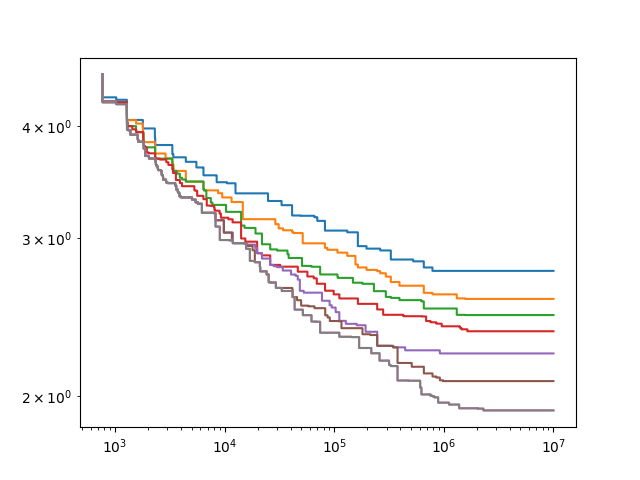
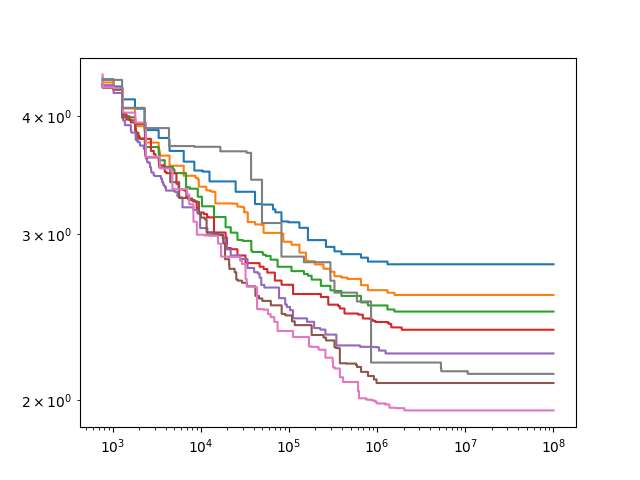
Fix the weughts/loss graph.
Use the median loss instead of the loss from single runs.

diff --git a/results.py b/results.py
@@ -1,0 +1,80 @@
+from collections import namedtuple
+import csv
+import math
+from statistics import median
+
+from record import TrainingRecord
+from spec import ModelSpec, ObsoleteSpec
+
+
+INF = float("inf")
+
+
+Configuration = namedtuple(
+    "Configuration",
+    ["spec", "lr", "sample_len", "batch", "regularization", "init_scale", "t"],
+)
+
+
+def conf_from_record(record):
+    spec = ModelSpec.parse(record.model_spec)
+    return Configuration(
+        spec,
+        record.learning_rate,
+        record.train_sample_len,
+        record.train_batch,
+        record.regularization,
+        record.init_scale,
+        record.time_round,
+    )
+
+
+class ConfResults(object):
+    def __init__(self, conf):
+        self.conf = conf
+        self.scores = []
+
+    def add_record(self, record):
+        score = record.loss
+        if math.isnan(score):
+            score = INF
+        self.scores.append(score)
+
+    @property
+    def score(self):
+        return median(self.scores)
+
+
+class ResultSet(object):
+    def __init__(self, t=None):
+        self._t = t
+        self._conf_results = {}
+
+    @staticmethod
+    def from_csv(filename, t=None):
+        result_set = ResultSet(t=t)
+        with open(filename) as csvfile:
+            for row in csv.reader(csvfile):
+                record = TrainingRecord.from_csv_tuple(row)
+                result_set.add_record(record)
+        return result_set
+
+    def add_record(self, record):
+        if self._t is not None and record.time_round != self._t: return
+
+        try:
+            conf = conf_from_record(record)
+        except ObsoleteSpec:
+            return
+        conf_results = self._conf_results.get(conf, None)
+        if conf_results is None:
+            conf_results = ConfResults(conf)
+            self._conf_results[conf] = conf_results
+
+        assert conf_results.conf == conf
+
+        conf_results.add_record(record)
+
+    def all_results(self):
+        return self._conf_results.values()
+

diff --git a/draw.py b/draw.py
@@ -1,23 +1,32 @@
-import csv
 import matplotlib.pyplot as plt
+import sys
 
 from record import TrainingRecord
+from results import ResultSet
 
 
-def max_points(records, maxt, maxx):
+def max_points(result_set, t, maxx):
     x = []
     y = []
     min_loss = 5
 
-    for r in records:
-        if r.train_time_s < maxt and r.loss < min_loss:
-            if x and x[-1] < r.weights - 1:
-                x.append(r.weights - 1)
-                y.append(min_loss)
+    for cr in sorted(result_set.all_results(), key=lambda cr: cr.conf.spec.weights()):
+        if not cr.scores or cr.conf.t != t: continue
+        if cr.score > min_loss: continue
 
-            x.append(r.weights)
-            y.append(r.loss)
-            min_loss = r.loss
+        weights = cr.conf.spec.weights()
+
+        if x:
+            if x[-1] < weights - 1:
+                x.append(weights - 1)
+                y.append(min_loss)
+            elif x[-1] == weights:
+                x.pop()
+                y.pop()
+
+        x.append(weights)
+        y.append(cr.score)
+        min_loss = cr.score
 
     x.append(maxx)
     y.append(min_loss)
@@ -25,26 +34,19 @@ def max_points(records, maxt, maxx):
     return x, y
 
 
-def main():
-    records = []
-
-    with open("search4-gpu.csv") as csvfile:
-        reader = csv.reader(csvfile)
-        for row in reader:
-            records.append(TrainingRecord.from_csv_tuple(row))
-
-    records.sort(key=lambda r: r.weights)
+def main(fname):
+    result_set = ResultSet.from_csv(fname)
 
     plt.xscale("log")
     plt.yscale("log")
 
     for t in (1, 2, 4, 8, 16, 32, 64, 128):
-        x, y = max_points(records, t + 0.2, 1E7)
-        plt.plot(x, y)
+        x, y = max_points(result_set, t, 1E8)
+        plt.plot(x, y, label=str(t))
 
     plt.savefig("graph.png")
     plt.show()
 
 
 if __name__ == "__main__":
-    main()
+    main(sys.argv[1])

diff --git a/record.py b/record.py
@@ -1,4 +1,5 @@
 from datetime import datetime
+import math
 from typing import Dict, Union, Tuple
 
 
@@ -19,7 +20,7 @@ class TrainingRecord(object):
         test_sample_len: Union[int, str],
         test_batch: Union[int, str],
         test_poisoned: Union[bool, str],
-        init_scale: Union[int, str, None] = 1,
+        init_scale: Union[float, str, None] = None,
     ):
         if not isinstance(timestamp, datetime):
             timestamp = datetime.fromisoformat(timestamp)
@@ -40,8 +41,8 @@ class TrainingRecord(object):
             test_poisoned = bool(int(test_poisoned))
         self.test_poisoned = test_poisoned
         if init_scale is None:
-            init_scale = 1
-        self.init_scale = int(init_scale)
+            init_scale = 1.0
+        self.init_scale = float(init_scale)
 
     @staticmethod
     def from_csv_tuple(row):
@@ -53,6 +54,21 @@ class TrainingRecord(object):
     @property
     def train_data(self):
         return self.steps * self.train_sample_len * self.train_batch
+
+    @property
+    def time_round(self):
+        log = math.log2(self.train_time_s)
+        ilog = round(log)
+        if abs(log - ilog) < 0.1:
+            return 2 ** ilog
+        else:
+            return None
+
+    @property
+    def weights_limit(self):
+        """The closest power of two that's greater than the number of weights."""
+        log = math.log2(self.train_time_s)
+        return 2 ** math.ceil(log)
 
     def csv_tuple(self) -> Tuple:
         return (
@@ -71,7 +87,7 @@ class TrainingRecord(object):
             self.test_sample_len,
             self.test_batch,
             1 if self.test_poisoned else 0,
-            1 if self.init_scale else 0
+            self.init_scale,
         )
 
     def __str__(self) -> str:

diff --git a/spec.py b/spec.py
@@ -4,6 +4,10 @@ from unittest import result
 from model import NCHAR
 
 
+class ObsoleteSpec(Exception):
+    pass
+
+
 registry = {}
 
 
@@ -25,7 +29,10 @@ class LayerSpec(object):
     has_size = True
     has_activation = True
 
-    def __init__(self, size=None, tanh=False, relu=False):
+    def __init__(self, size=None, tanh=False, relu=False, sigmoid=False):
+        if sigmoid:
+            raise ObsoleteSpec('sigmoid')
+
         if self.has_size:
             assert size is not None
             self._size = size
@@ -61,7 +68,11 @@ class LayerSpec(object):
             except ValueError:
                 kwargs[param] = True
 
-        layer_cls = registry[name]
+        try:
+            layer_cls = registry[name]
+        except KeyError as e:
+            if name == 'norm':
+                raise ObsoleteSpec(e)
         return layer_cls(*args, **kwargs)
 
     def __str__(self):
@@ -180,7 +191,7 @@ class AttentionSpec(LayerSpec):
     has_size = True
     has_activation = False
 
-    def __init__(self, size, pos):
+    def __init__(self, size, pos=False):
         super().__init__(size=size)
         self._pos = pos
 
